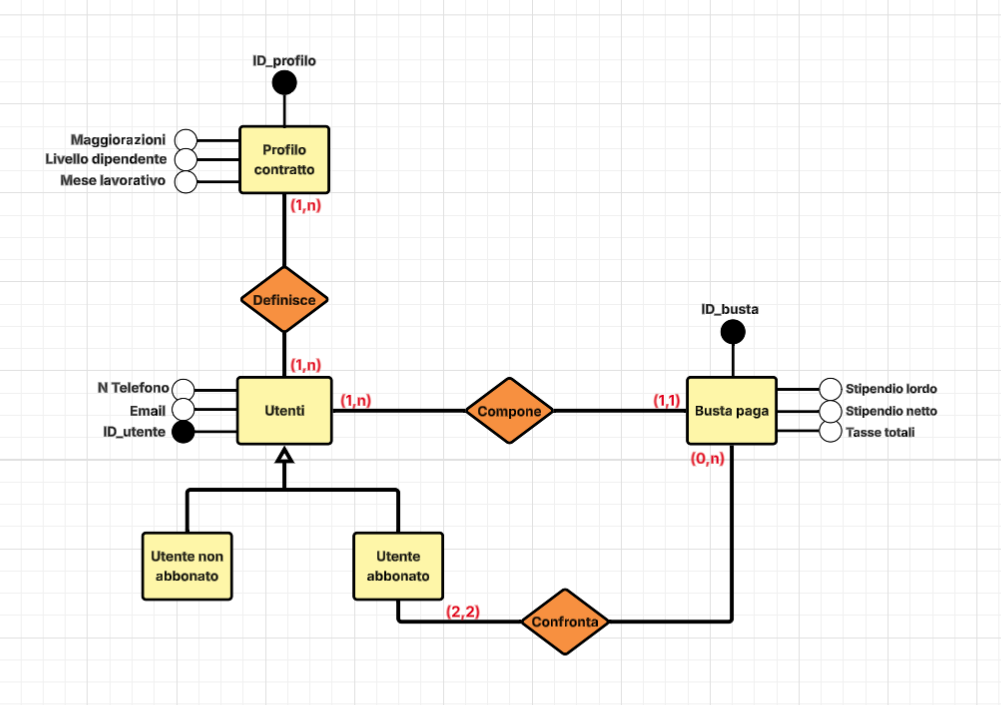
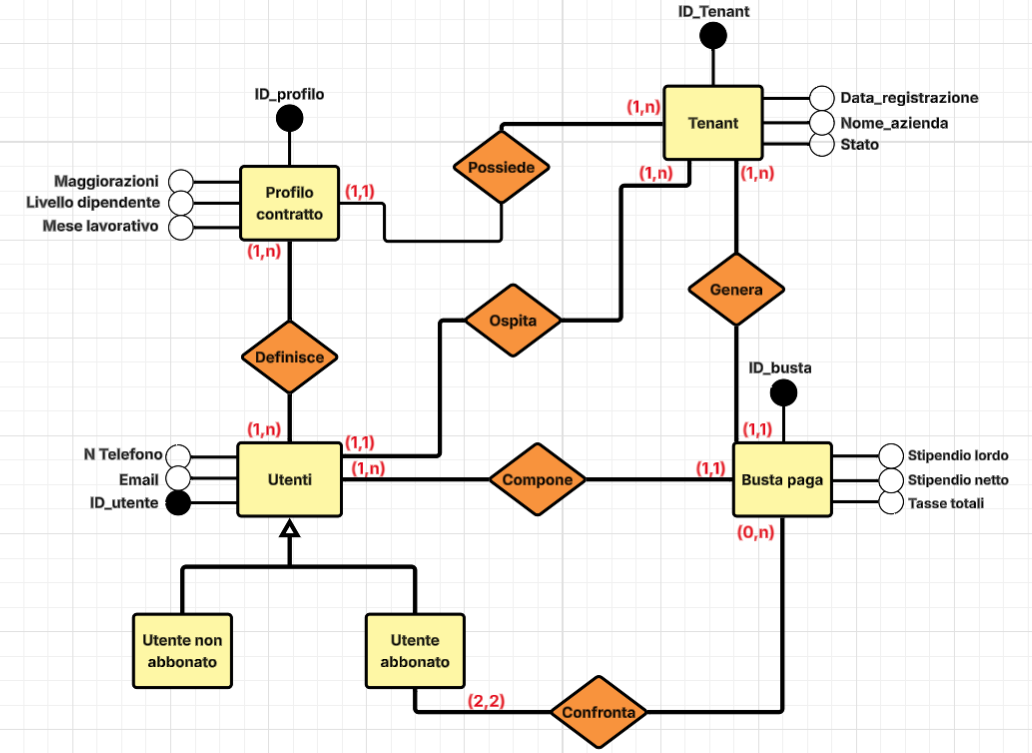
sistemazione diagramma e/r

Changed region(s): [[0.0, 0.0, 0.991, 0.9986]]

diff --git a/phpMyAdmin/public/SITO/BPIC/auth/auto_logout_on_close.js b/phpMyAdmin/public/SITO/BPIC/auth/auto_logout_on_close.js
@@ -1,0 +1,47 @@
+(function () {
+  let navigating = false;
+  let logoutSent = false;
+
+  function markNavigating() {
+    navigating = true;
+  }
+
+  function sendAutoLogout() {
+    if (navigating || logoutSent) {
+      return;
+    }
+
+    logoutSent = true;
+    const payload = new URLSearchParams({ reason: 'page_close' });
+    navigator.sendBeacon('/SITO/BPIC/auth/auto_logout.php', payload);
+  }
+
+  document.addEventListener(
+    'click',
+    function (event) {
+      const link = event.target && event.target.closest ? event.target.closest('a[href]') : null;
+      if (!link) {
+        return;
+      }
+
+      const target = (link.getAttribute('target') || '').toLowerCase();
+      if (target === '_blank' || link.hasAttribute('download')) {
+        return;
+      }
+
+      markNavigating();
+    },
+    true
+  );
+
+  document.addEventListener(
+    'submit',
+    function () {
+      markNavigating();
+    },
+    true
+  );
+
+  window.addEventListener('beforeunload', sendAutoLogout);
+  window.addEventListener('pagehide', sendAutoLogout);
+})();

diff --git a/phpMyAdmin/public/SITO/Diagrammi/diagramma_er.php b/phpMyAdmin/public/SITO/Diagrammi/diagramma_er.php
@@ -47,6 +47,31 @@
       border-radius: 15px;
       box-shadow: 0 2px 10px rgba(0,0,0,0.1);
     }
+    /* Centra il contenuto della pagina e rende il diagramma responsive */
+    .container {
+      width: 100%;
+      max-width: 1000px;
+      margin: 40px auto 0 auto;
+      display: flex;
+      flex-direction: column;
+      align-items: center;
+      gap: 12px;
+      text-align: center;
+    }
+    .diagram-container {
+      width: 100%;
+      display: flex;
+      justify-content: center;
+      align-items: center;
+      padding: 10px 0 30px 0;
+    }
+    .diagram-container img {
+      max-width: 100%;
+      height: auto;
+      display: block;
+      border-radius: 8px;
+      box-shadow: 0 4px 12px rgba(0,0,0,0.08);
+    }
   </style>
 </head>
 <body>

diff --git a/phpMyAdmin/public/SITO/BPIC/auth/auto_logout.php b/phpMyAdmin/public/SITO/BPIC/auth/auto_logout.php
@@ -1,0 +1,22 @@
+<?php
+declare(strict_types=1);
+
+session_start();
+
+$_SESSION = [];
+
+if (ini_get('session.use_cookies')) {
+    $params = session_get_cookie_params();
+    setcookie(
+        session_name(),
+        '',
+        time() - 42000,
+        $params['path'],
+        $params['domain'],
+        (bool)$params['secure'],
+        (bool)$params['httponly']
+    );
+}
+
+session_destroy();
+http_response_code(204);

diff --git a/phpMyAdmin/public/SITO/BPIC/register.php b/phpMyAdmin/public/SITO/BPIC/register.php
@@ -2,6 +2,18 @@
 declare(strict_types=1);
 require_once __DIR__ . "/database.php";
 
+session_start();
+
+if (!empty($_SESSION['user_id'])) {
+  $roleNames = array_map(static fn(array $r): string => (string)($r['name'] ?? ''), $_SESSION['roles'] ?? []);
+  if (in_array('tenant', $roleNames, true)) {
+    header('Location: /SITO/BPIC/tenant_dashboard.php');
+    exit;
+  }
+  header('Location: /SITO/BPIC/home.php');
+  exit;
+}
+
 $errors = [];
 $ok = false;
 

diff --git a/phpMyAdmin/public/SITO/BPIC/login.php b/phpMyAdmin/public/SITO/BPIC/login.php
@@ -4,6 +4,16 @@ require_once __DIR__ . "/database.php";
 
 session_start();
 
+if (!empty($_SESSION['user_id'])) {
+  $roleNames = array_map(static fn(array $r): string => (string)($r['name'] ?? ''), $_SESSION['roles'] ?? []);
+  if (in_array('tenant', $roleNames, true)) {
+    header('Location: /SITO/BPIC/tenant_dashboard.php');
+    exit;
+  }
+  header('Location: /SITO/BPIC/home.php');
+  exit;
+}
+
 $errors = [];
 $generatedToken = '';
 

diff --git a/phpMyAdmin/public/SITO/BPIC/dashboard.php b/phpMyAdmin/public/SITO/BPIC/dashboard.php
@@ -51,6 +51,11 @@ if ($isAuthenticated && $isTenant) {
     header('Location: /SITO/BPIC/tenant_dashboard.php');
     exit;
 }
+
+if ($isAuthenticated) {
+    header('Location: /SITO/BPIC/home.php');
+    exit;
+}
 ?>
 <!DOCTYPE html>
 <html lang="it">

diff --git a/phpMyAdmin/public/SITO/BPIC/Impostazioni_contratto.php b/phpMyAdmin/public/SITO/BPIC/Impostazioni_contratto.php
@@ -519,5 +519,6 @@ if ($contratto === 'metalmeccanico') {
       </div>
     </form>
   </main>
+  <script src="/SITO/BPIC/auth/auto_logout_on_close.js"></script>
 </body>
 </html>

diff --git a/phpMyAdmin/public/SITO/BPIC/Profilo_contratto.php b/phpMyAdmin/public/SITO/BPIC/Profilo_contratto.php
@@ -291,5 +291,6 @@ if ($selectedContratto === '') {
       });
     });
   </script>
+  <script src="/SITO/BPIC/auth/auto_logout_on_close.js"></script>
 </body>
 </html>

diff --git a/phpMyAdmin/public/SITO/BPIC/home.php b/phpMyAdmin/public/SITO/BPIC/home.php
@@ -228,5 +228,6 @@ $isAbbonato = in_array(1, $roleIds, true) || in_array(2, $roleIds, true);
       </div>
     </section>
   </main>
+  <script src="/SITO/BPIC/auth/auto_logout_on_close.js"></script>
 </body>
 </html>

diff --git a/phpMyAdmin/public/SITO/BPIC/mockup_viste.php b/phpMyAdmin/public/SITO/BPIC/mockup_viste.php
@@ -1079,5 +1079,6 @@ $routePermissions = [
     </section>
 
 </main>
+<script src="/SITO/BPIC/auth/auto_logout_on_close.js"></script>
 </body>
 </html>

diff --git a/phpMyAdmin/public/SITO/BPIC/tenant_dashboard.php b/phpMyAdmin/public/SITO/BPIC/tenant_dashboard.php
@@ -654,5 +654,6 @@ $roleLabel = empty($roleNames) ? 'nessun ruolo' : implode(', ', $roleNames);
         </p>
     </section>
 </div>
+<script src="/SITO/BPIC/auth/auto_logout_on_close.js"></script>
 </body>
 </html>

diff --git a/phpMyAdmin/public/SITO/BPIC/test_transazione_t14.php b/phpMyAdmin/public/SITO/BPIC/test_transazione_t14.php
@@ -256,5 +256,6 @@ if (empty($_SESSION['user_id'])) {
 
     refreshState().catch((e) => log(String(e)));
   </script>
+  <script src="/SITO/BPIC/auth/auto_logout_on_close.js"></script>
 </body>
 </html>